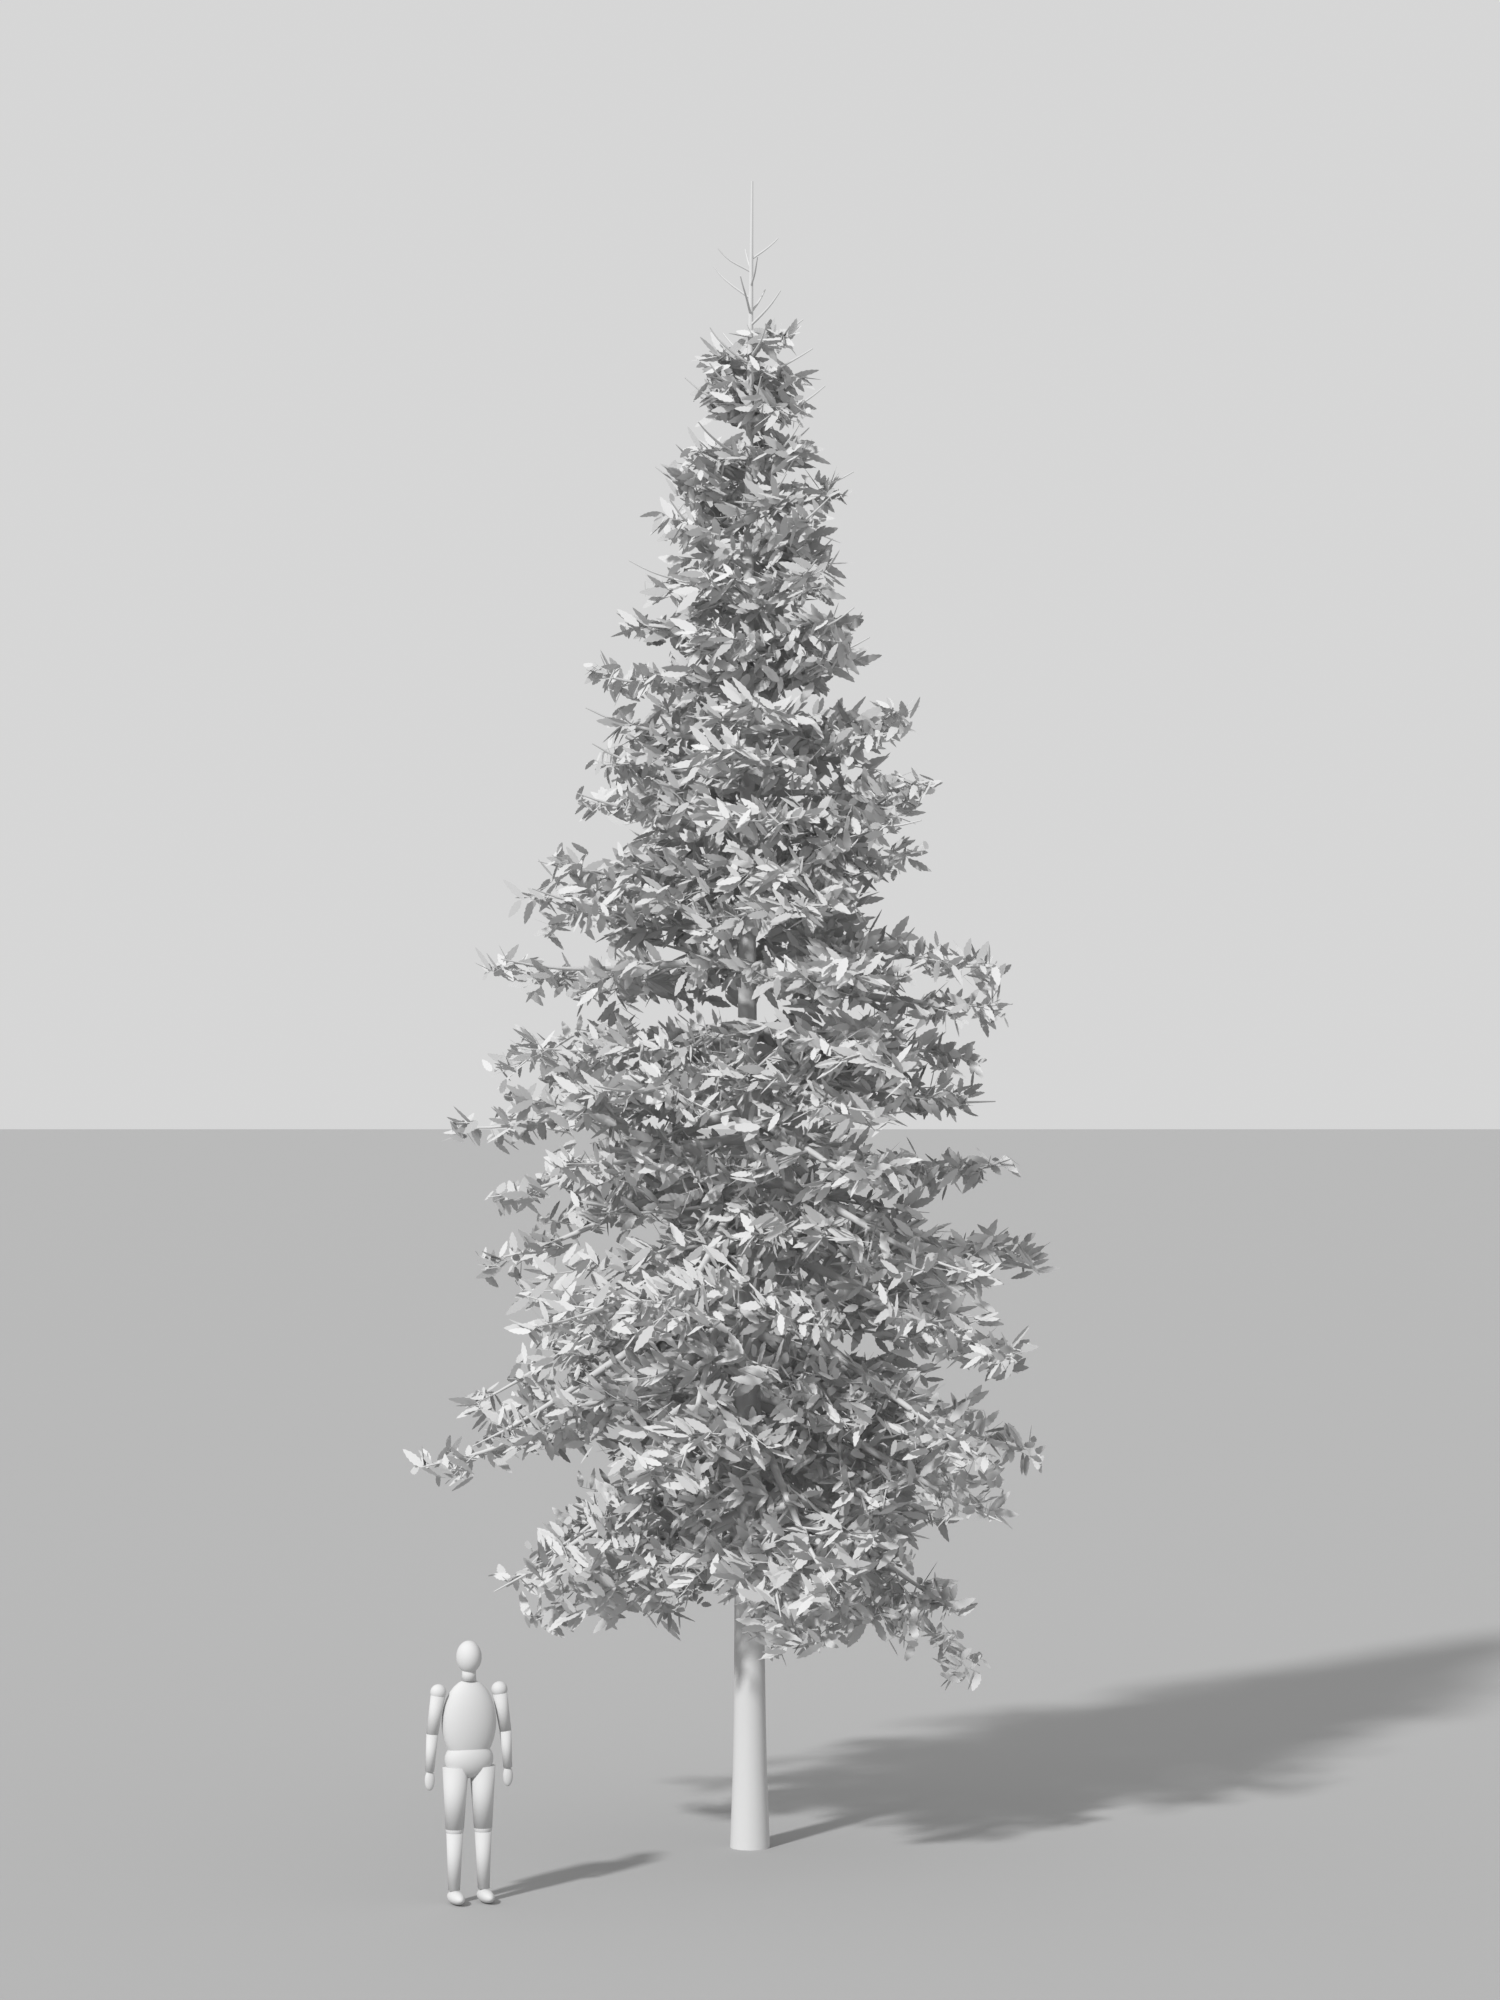
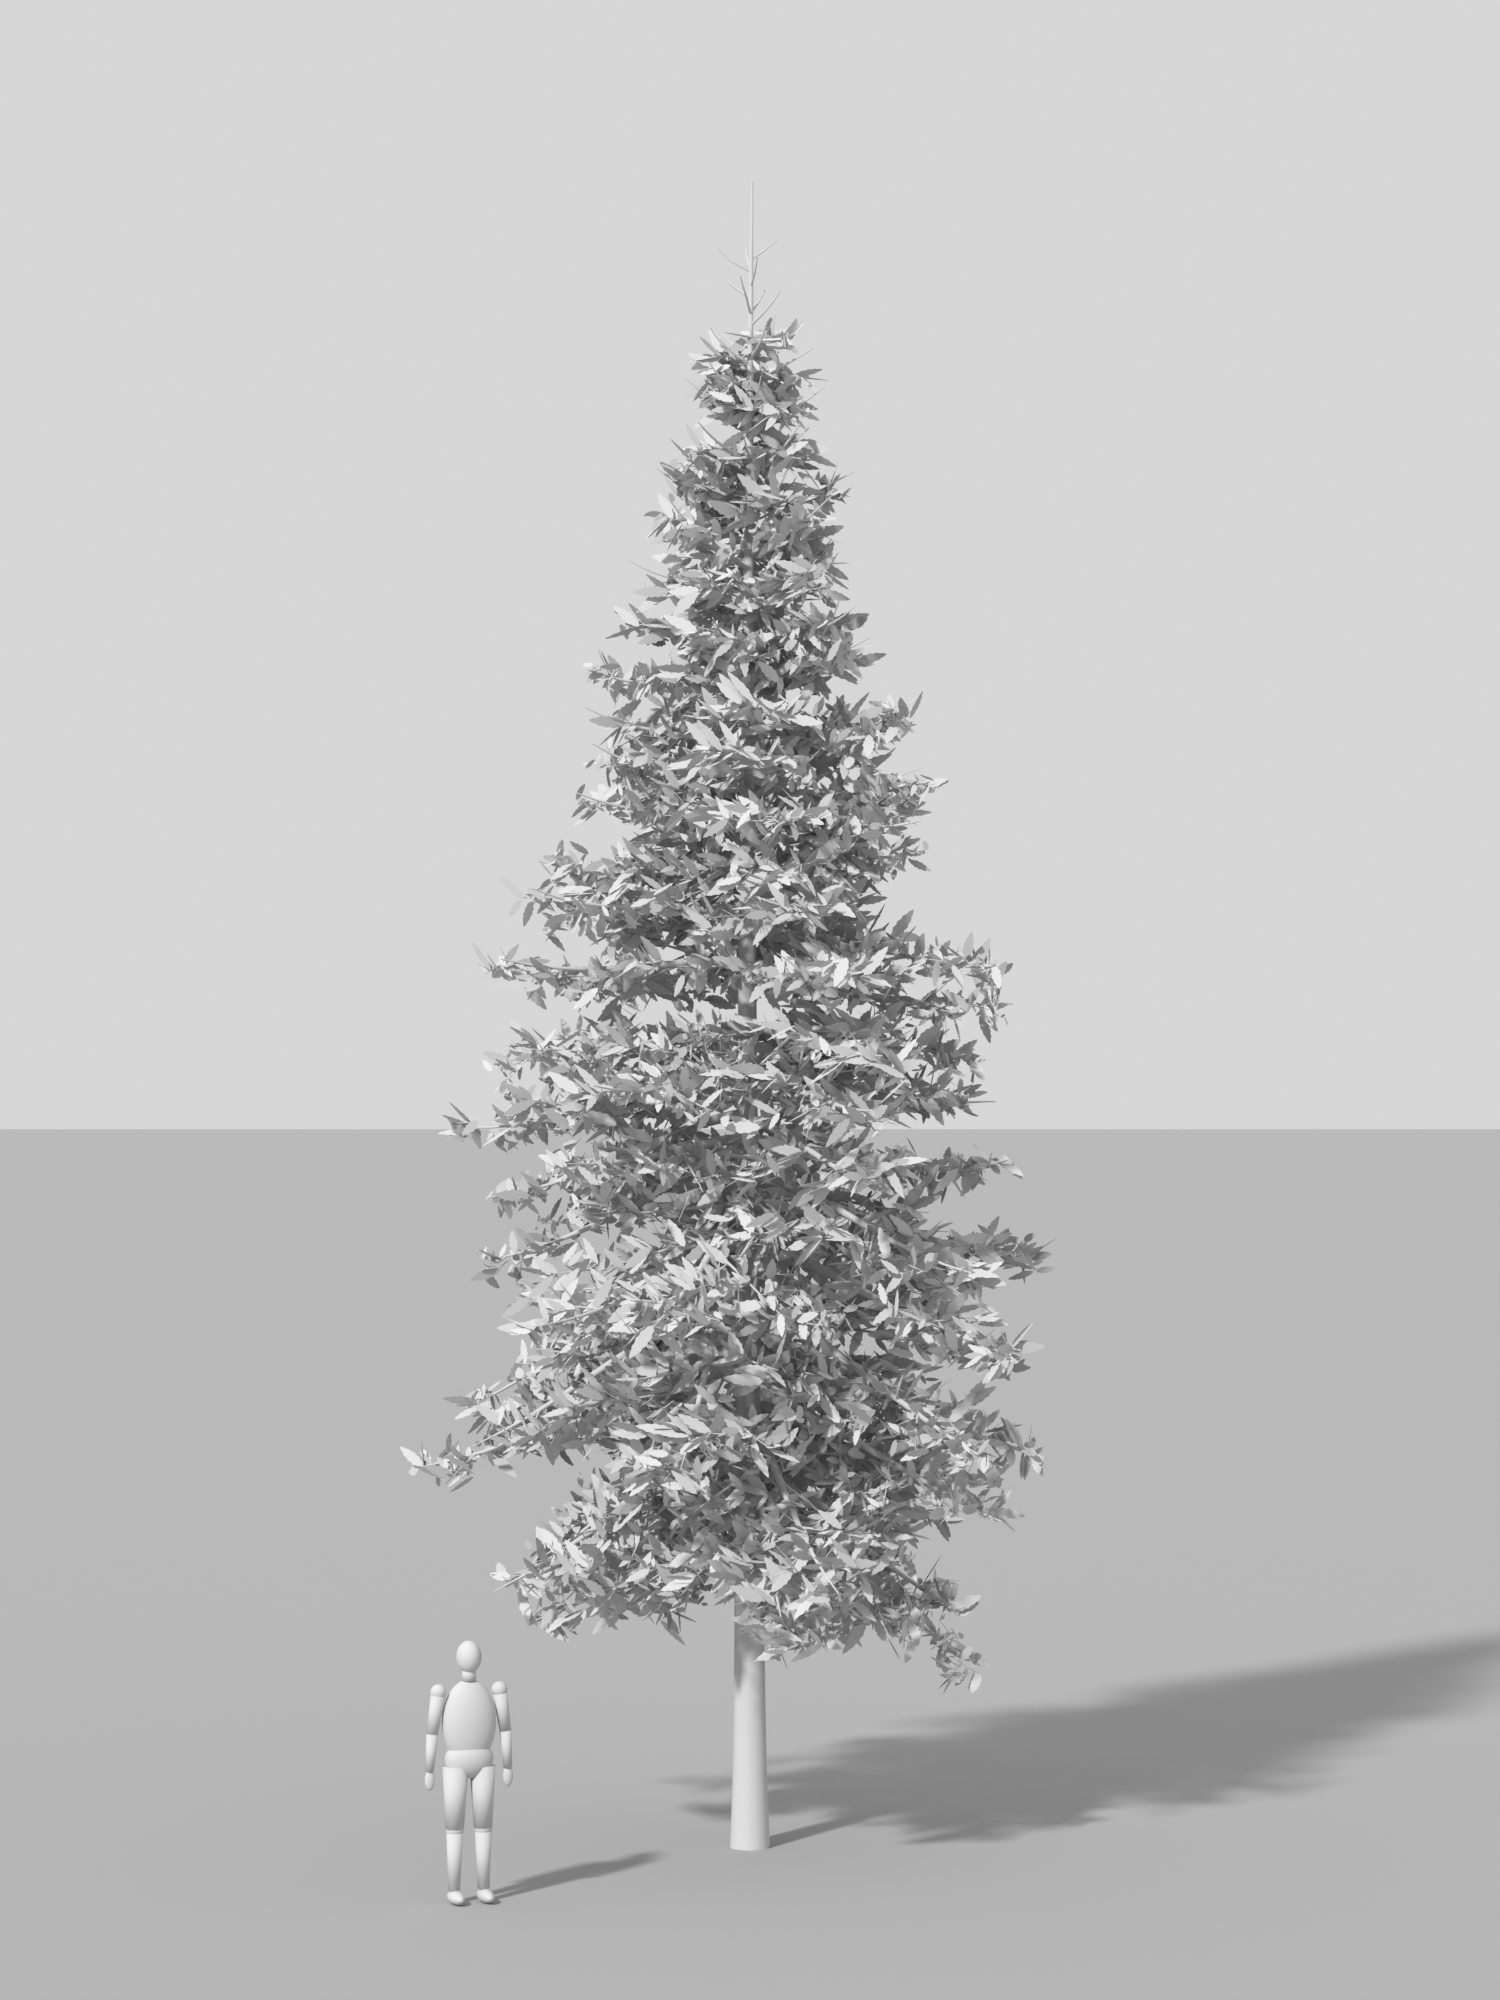
Widen random leaf scale (0.45-1.7), expose LEAF_SCALE_MIN/MAX; re-render
Claude-Session: https://claude.ai/code/session_0169RePfxHbDJCrdS3aTgHpL

Changed region(s): [[0.3373, 0.155, 0.6747, 0.837]]

diff --git a/procedural_tree/make_tree.py b/procedural_tree/make_tree.py
@@ -244,6 +244,7 @@ c_small.data.bevel_depth = 0.0
 #    Rameau d'aiguilles : pointe vers +X, posé dans le plan XY, légèrement dentelé
 # ----------------------------------------------------------------------------
 LEAF_L, LEAF_W = 0.17, 0.045
+LEAF_SCALE_MIN, LEAF_SCALE_MAX = 0.45, 1.7     # random de taille par feuille
 stations = 10
 verts, faces = [], []
 for i in range(stations + 1):
@@ -301,8 +302,8 @@ first_enabled(n_rrot, "Min").default_value = (-math.pi, -0.35, -1.0)
 first_enabled(n_rrot, "Max").default_value = (math.pi, 0.35, 1.0)
 first_enabled(n_rrot, "Seed").default_value = 3
 n_rscl = node("FunctionNodeRandomValue", 250, data_type="FLOAT")
-first_enabled(n_rscl, "Min").default_value = 0.8
-first_enabled(n_rscl, "Max").default_value = 1.35
+first_enabled(n_rscl, "Min").default_value = LEAF_SCALE_MIN
+first_enabled(n_rscl, "Max").default_value = LEAF_SCALE_MAX
 first_enabled(n_rscl, "Seed").default_value = 11
 
 n_inst = node("GeometryNodeInstanceOnPoints", 600)
